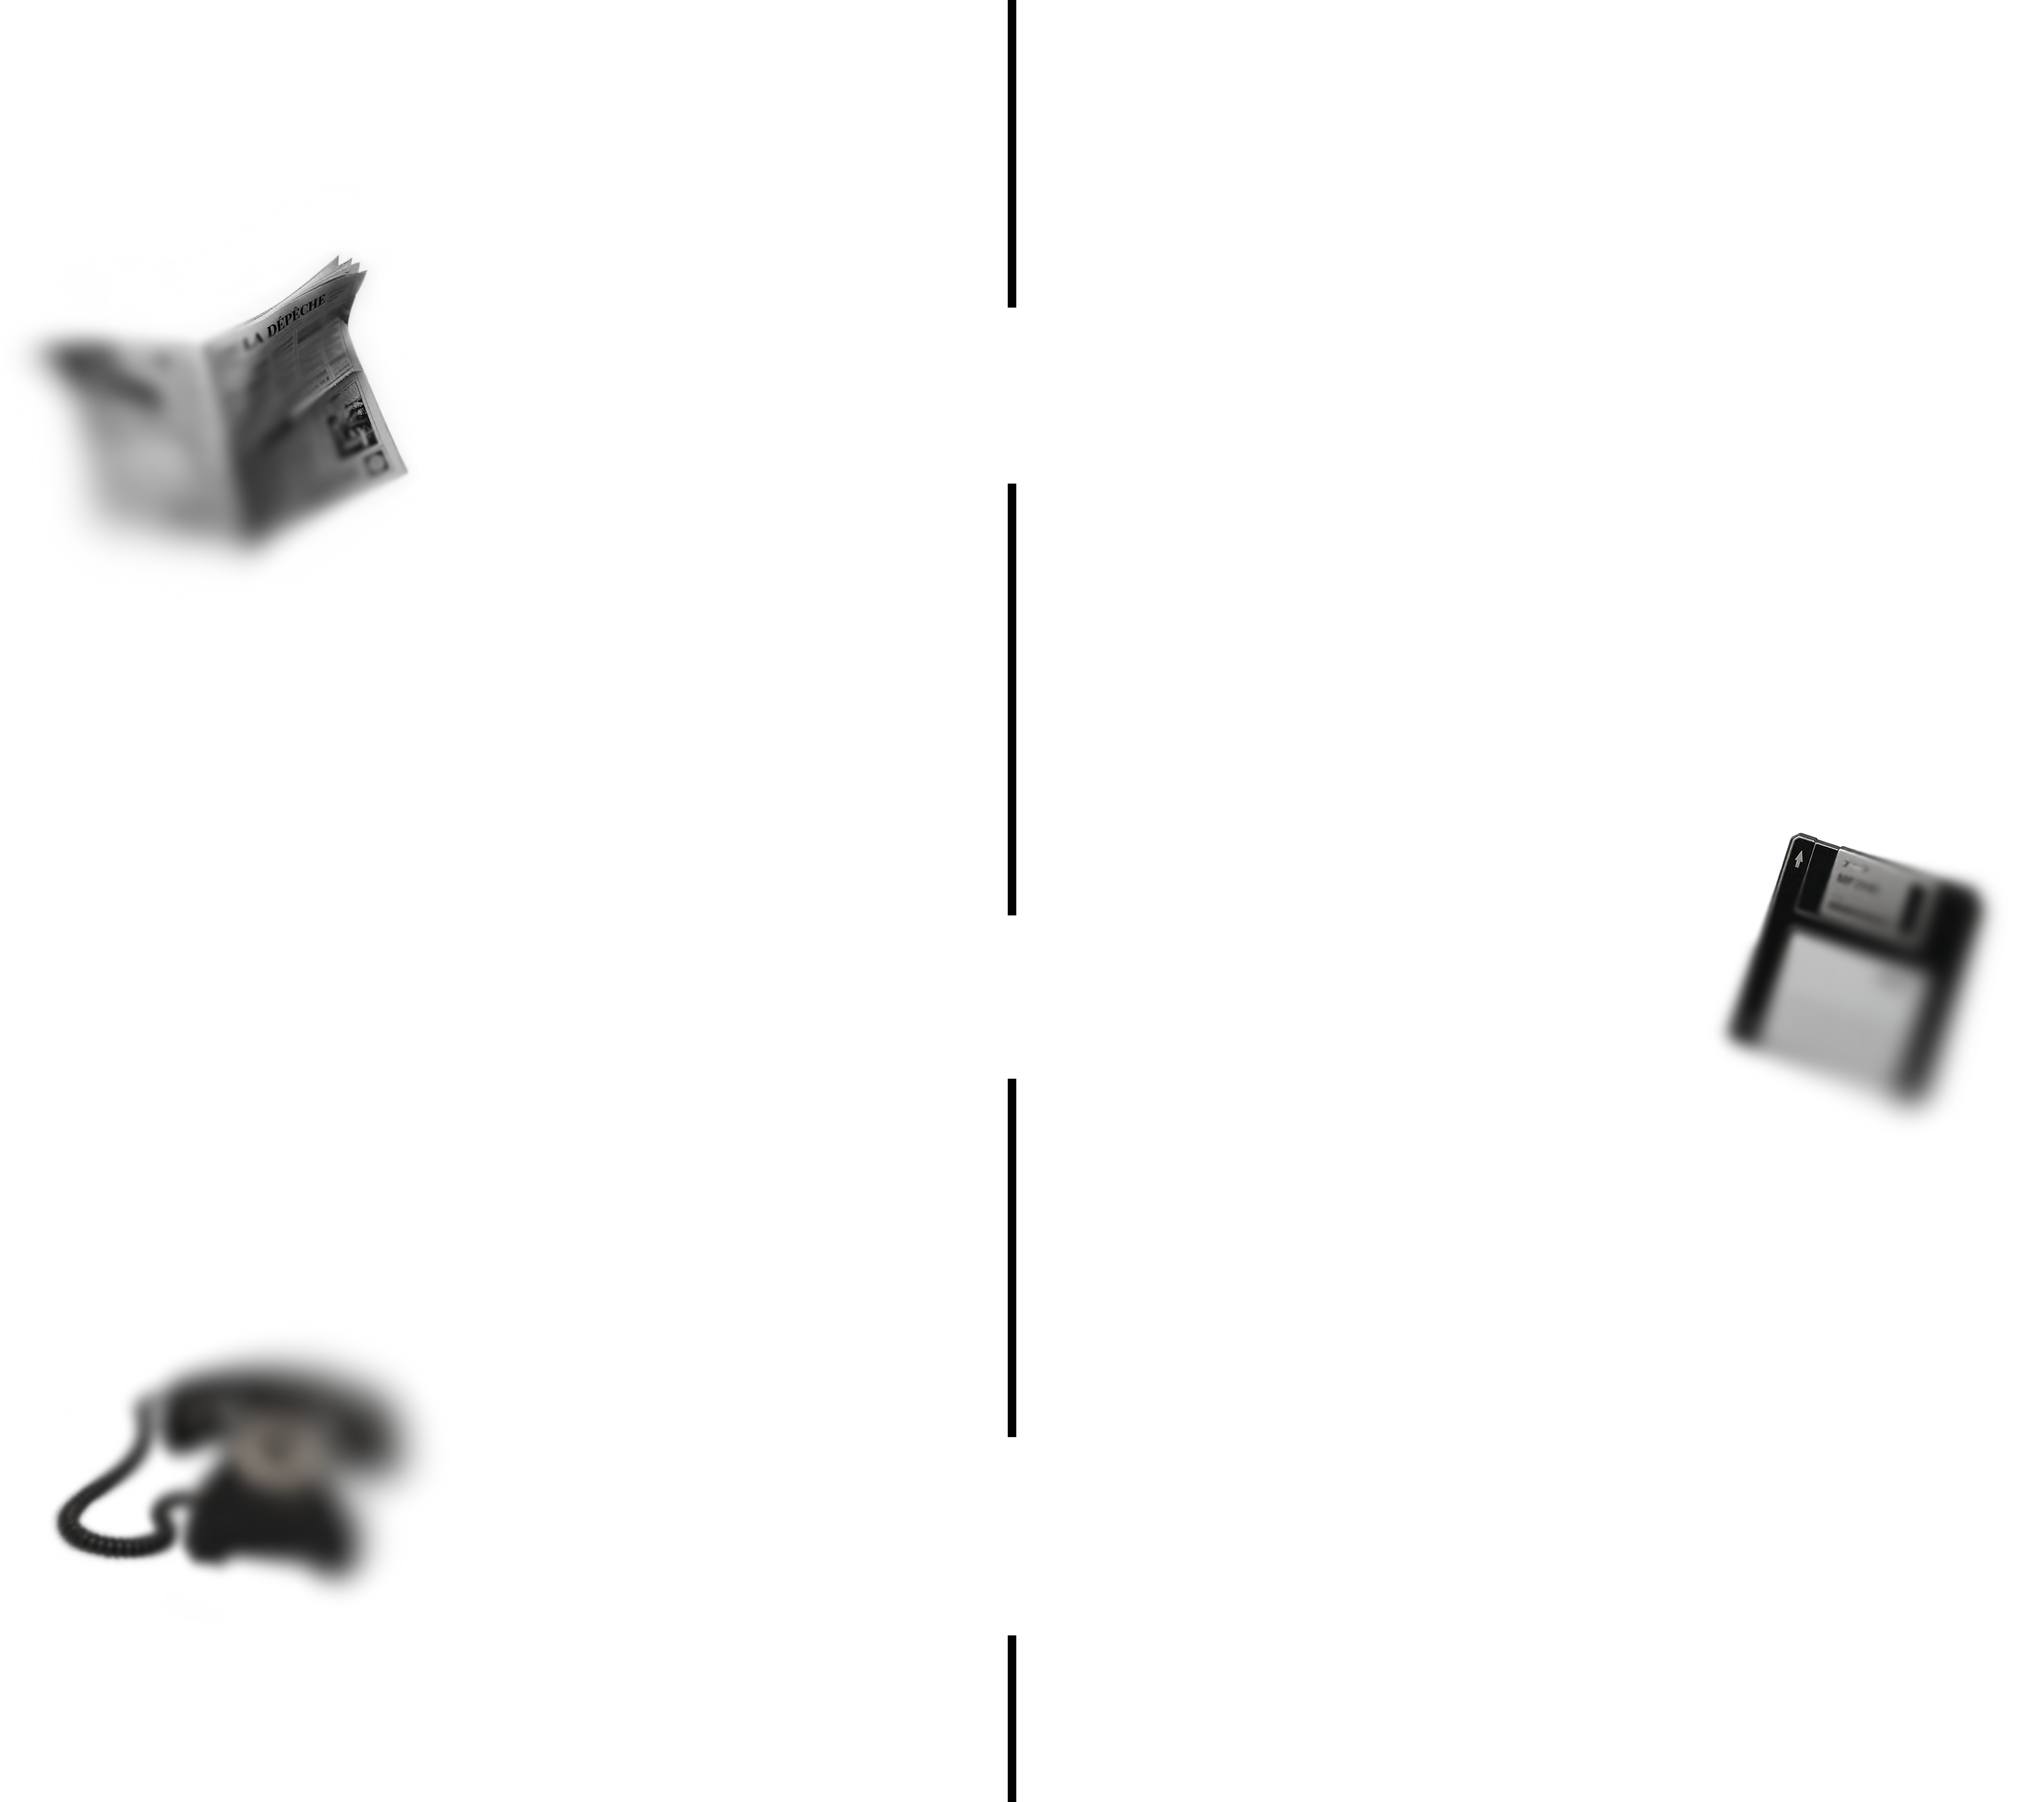
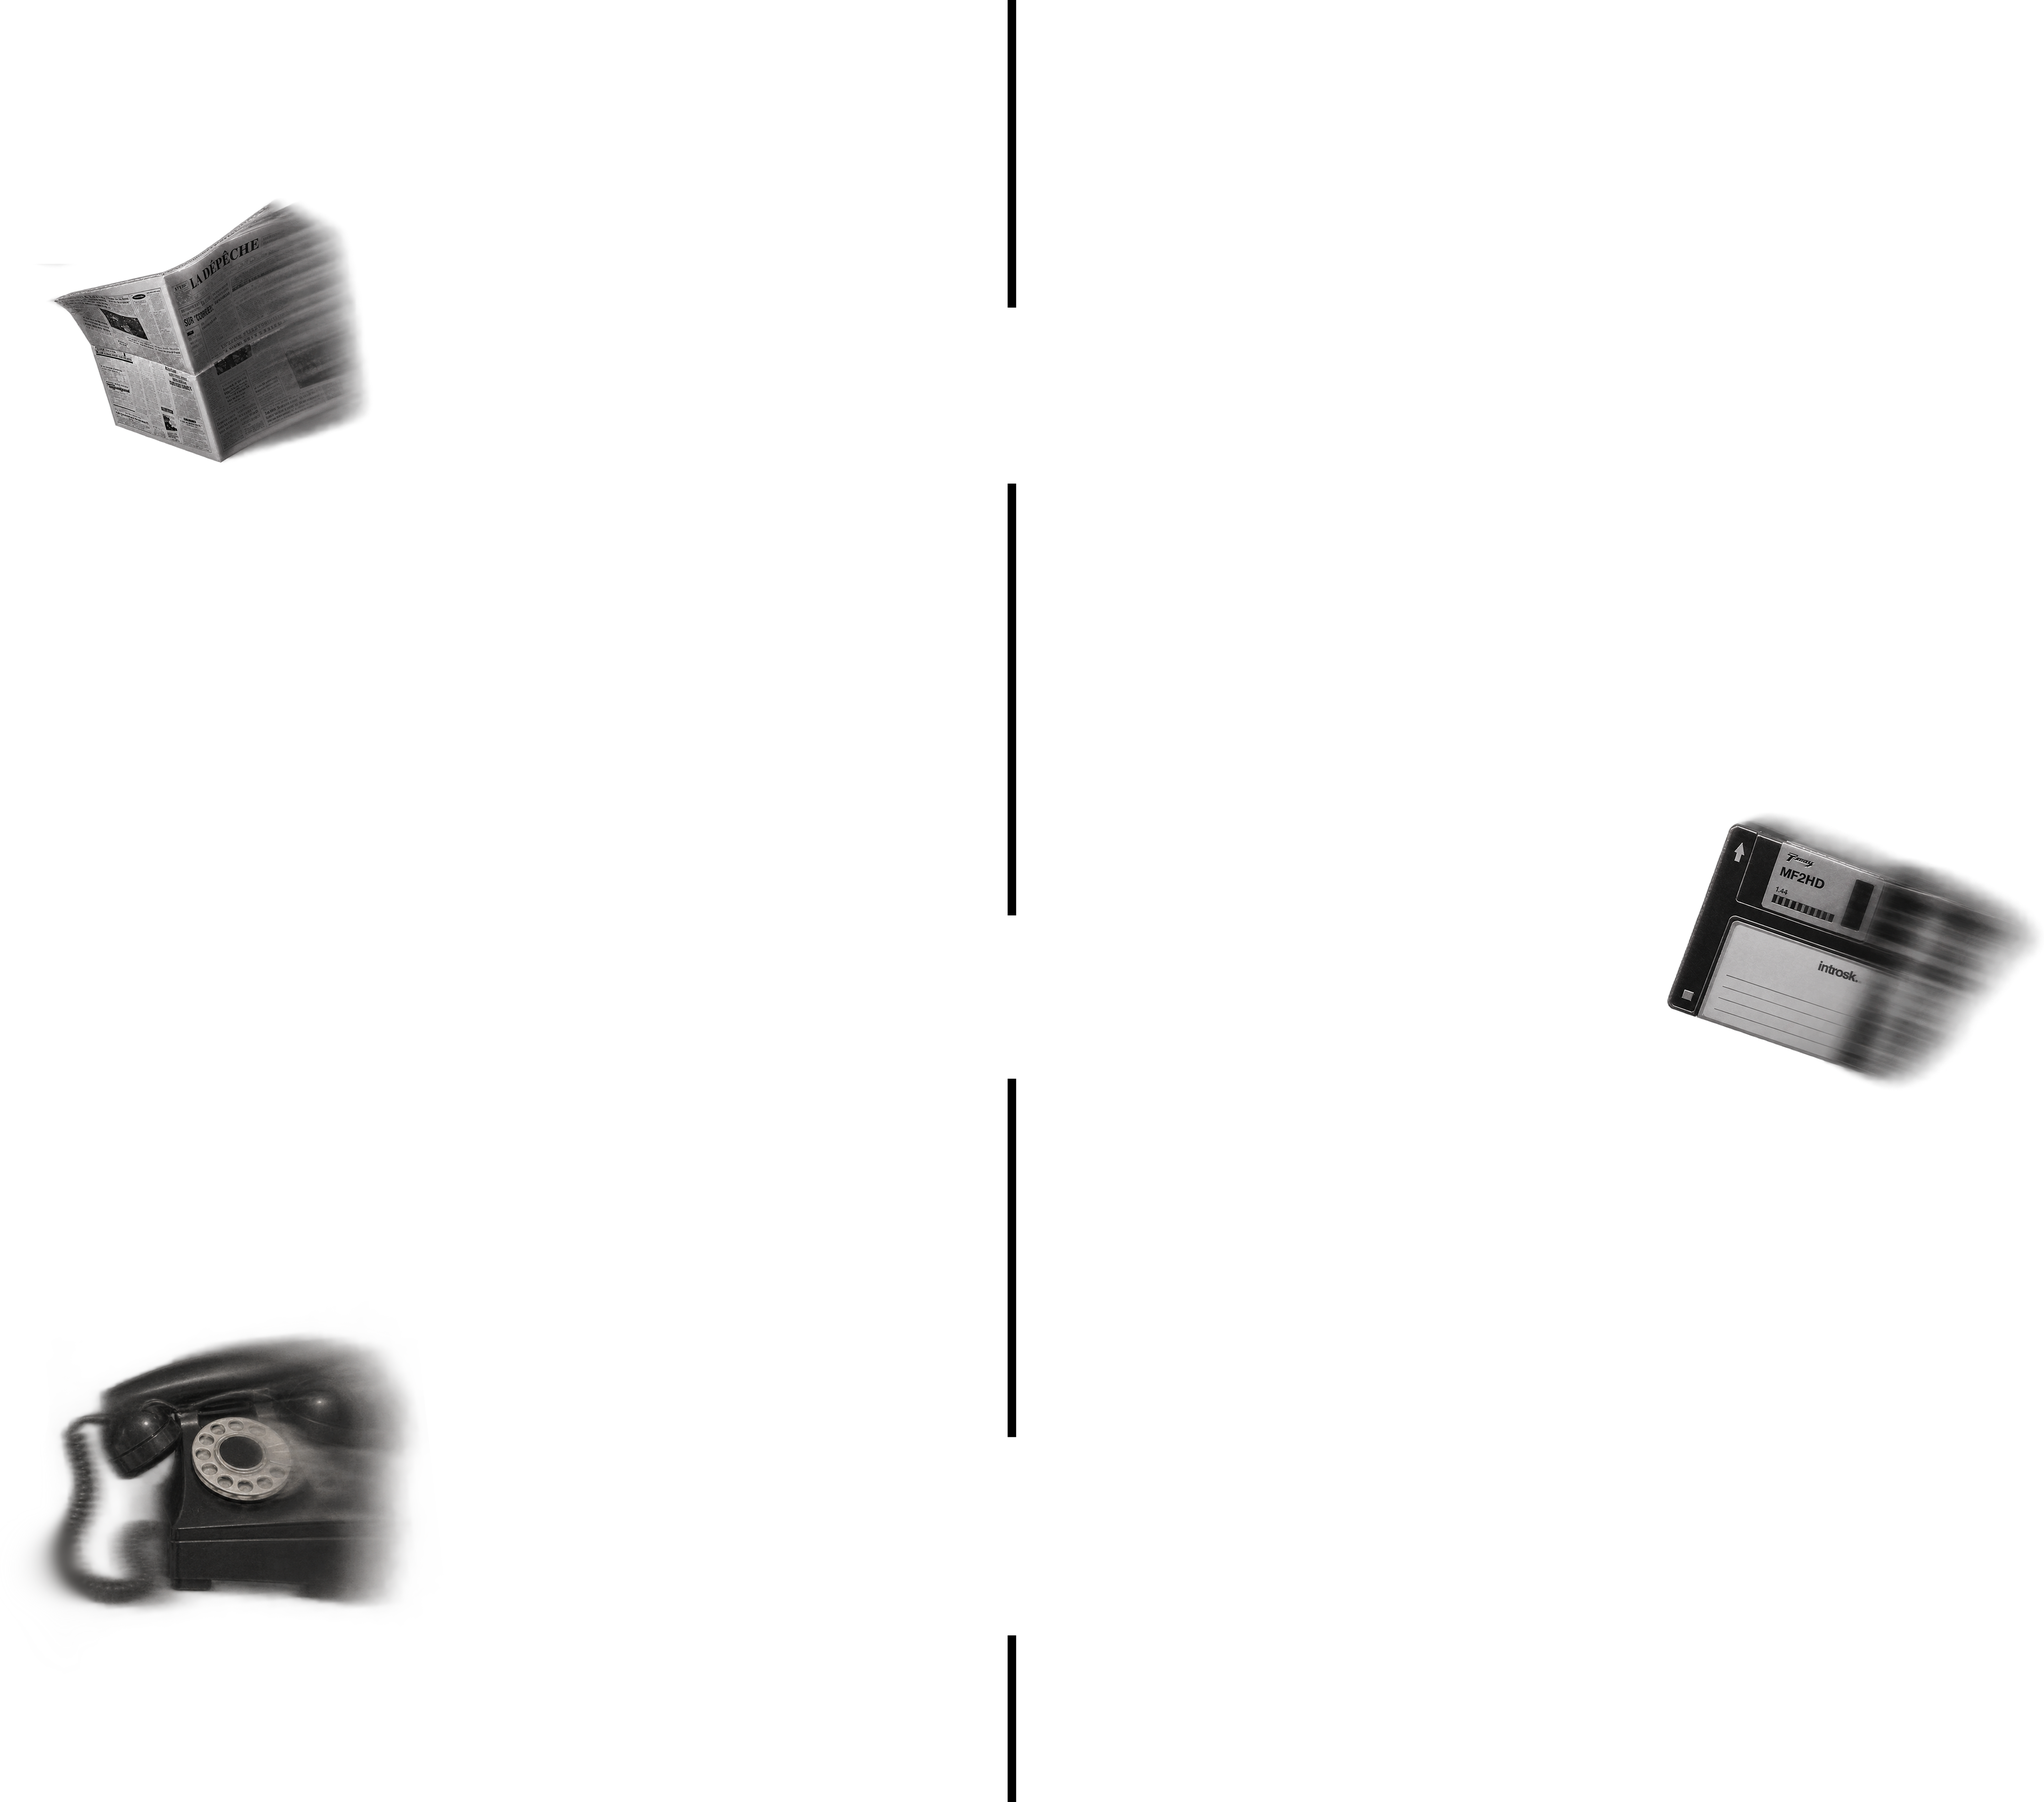
последние правки
почистила css и HTML чтобы не было повторяющихся элементов

Changed region(s): [[0.0, 0.7155, 0.218, 0.9021], [0.0, 0.0933, 0.218, 0.3111], [0.8097, 0.4355, 0.9965, 0.6222]]

diff --git a/index.html b/index.html
@@ -11,13 +11,11 @@
 
 <body>
 
-  <ul>
-    <li><a href="#1">О нас</a></li>
-  </ul>
+
 
   <section class="section-0">
     <nav class="menu">
-      <img src="imagesforweb/list.png" class="perehod">
+      <img src="imagesforweb/list.png" class="perehod" alt="меню">
       <a href="#1">о нас</a>
       <a href="#3">история</a>
       <a href="#4">каталог</a>
@@ -30,7 +28,7 @@
     <h2 class="title">Здесь можно записать то,
       что хочется сохранить!</h2>
     <a href="#1" class="godown">
-      <img src="imagesforweb/down.png" class="go">
+      <img src="imagesforweb/down.png" class="go" alt="вниз">
     </a>
   </section>
 
@@ -39,16 +37,16 @@
     <div class="about-text1">
       <div class="text">
         <p>
-          morrow— это место для воспоминаний, которые хочется сохранить.
+          morrow — это место для воспоминаний, которые хочется сохранить.
           Мы создали кабинку, куда можно зайти на пару минут,
           взять трубку и оставить свой голос: рассказать о
           важном, смешном, странном или просто о сегодняшнем дне.
         </p>
         <p>Здесь можно оставить послание себе в будущее или
           кому-то, кто однажды его услышит.
-          Потому что сейчас— это то, по чему мы когда-нибудь будем скучать.</p>
+          Потому что сейчас — это то, по чему мы когда-нибудь будем скучать.</p>
       </div>
-      <img src="imagesforweb/photo2.png" class="photo2">
+      <img src="imagesforweb/photo2.png" class="photo2" alt="">
     </div>
   </section>
 
@@ -60,7 +58,7 @@
           забывается. Ведь иногда именно самые обычные моменты потом становятся самыми
           дорогими!</p>
       </div>
-      <img src="imagesforweb/photostars.png" class="star">
+      <img src="imagesforweb/photostars.png" class="star" alt="">
     </div>
   </section>
 
@@ -69,7 +67,7 @@
       <h2 class="big">2024<span class="dop">отпечаток</span></h2>
       <p>Всё началось с простой мысли: а что, если
         можно было бы сохранить не только фотографии, но и голос, настроение и мысли
-        определённого момента</p>
+        определённого момента.</p>
     </div>
     <div class="text4">
       <h2 class="big">2025<span class="dop">память</span></h2>
@@ -83,33 +81,33 @@
     </div>
   </section>
 
-  <Section class="section-5">
+  <section class="section-5">
     <h1 id="4" class="big2">Каталог</h1>
-    <img src="imagesforweb/catalog.png" class="catalog">
+    <img src="imagesforweb/catalog.png" class="catalog" alt="каталог">
     <div class="tariffs">
-      <div class="t11"><b>Мы вдвоём</b><b>367</b>
+      <div class="t11"><b>Мы вдвоём</b><b>367р</b>
         <p>20 минут для двоих + несколько видео и голосовых на память.</p>
       </div>
-      <div class="t12"><b>Для будущего</b><b>500</b>
-        <p>15 минут + до 3 записей. Можно оставить послание себе или кому-то</p>
+      <div class="t12"><b>Для будущего</b><b>500р</b>
+        <p>15 минут + до 3 записей. Можно оставить послание себе или кому-то.</p>
       </div>
-      <div class="t13"><b>Одно воспоминание</b><b>200</b>
+      <div class="t13"><b>Одно воспоминание</b><b>200р</b>
         <p>10 минут в кабинке + запись одного видео или голосового сообщения.</p>
       </div>
-      <div class="t14"><b>Архив</b><b>1000</b>
+      <div class="t14"><b>Архив</b><b>1000р</b>
         <p>30 минут в кабинке + неограниченное количество записей.</p>
       </div>
     </div>
 
-  </Section>
+  </section>
 
-  <Section class="section-6">
+  <section class="section-6">
     <h1 id="5" class="big3">Воркеры</h1>
-    <img src="imagesforweb/workers.png" class="work">
+    <img src="imagesforweb/workers.png" class="work" alt="наша команда">
     <p class="worktext">Мы — команда из четырёх человек, которых
       объединяет любовь к историям, воспоминаниям и необычным
       идеям. Вместе мы
-      создаём morrow</p>
+      создаём morrow.</p>
     <div class="names">
       <span>Кристи</span>
       <span>Андрей</span>
@@ -117,10 +115,10 @@
       <span>Виктория</span>
     </div>
 
-  </Section>
+  </section>
 
-  <Section class="section-7">
-    <img src="imagesforweb/podval.png" class="podval">
+  <section class="section-7">
+    <img src="imagesforweb/podval.png" class="podval" alt="">
     <div class="white">
       <span class="t1">подпишись на канал и получи скидку 10% на первое посещение</span>
 
@@ -135,11 +133,7 @@
       <span class="t9">8 (395) 885 30 20</span>
     </div>
 
-  </Section>
-
-
-
-
+  </section>
 
 
 </body>

diff --git a/stylesheets/layout.css b/stylesheets/layout.css
@@ -5,8 +5,6 @@ html {
   scroll-behavior: smooth;
 }
 body{
-  /* font-family: Arial, Helvetica, sans-serif; */
-   /* font-family: "PT Root UI"; */
     font-family: "Open Sans", Arial, sans-serif;
 }
 img {
@@ -29,15 +27,13 @@ img {
     padding-top: 550px; /* отступ сверху */
 }
 .go {
-    height: auto;
     width: 90px;
     opacity: 0.5;              /* блеклая кнопка йоу */
     transition: opacity 0.3s;  /* плавная смена */
-    text-align: center;  /*выровнять по центру*/
     padding-top: 100px;  /* отступ сверху */
      margin: 0 auto;
 }
-h1, h2, h3, h4, h5, p, ul, ol, blockquote, hr {
+h1, h2, p {
   width: 750px;
   margin: 0 auto;
 }
@@ -52,17 +48,12 @@ p {
   font-size: 25px;    /*менять размер текста*/
   line-height: 28px;
 }
-b, strong {
-    font-weight: 700;
-}
+
 
 .go:hover {
     opacity: 0.7;                
 }
 
-ul {
-    display: none;
-}
 
 .onas {
  margin: 40px auto 110px;
@@ -73,7 +64,6 @@ ul {
     gap: 230px;               /* расстояние между картинкой и текстом */
     max-width: 1200px;
     margin: 0 auto;
-    position: relative; 
 }
 .text {
     width: 55%;              /* текст влево */
@@ -83,7 +73,6 @@ ul {
     right: 30px;
 }
 .photo2 {
-    height: auto;
     width: 500px;
     position: relative;
     top: -150px;      
@@ -93,8 +82,7 @@ ul {
 .about-text2 {
    width: 700px;
     text-align: center;  
-     position: relative;
-      margin: 0 auto;         
+    margin: 0 auto;         
 }
 .star {
     position: relative;
@@ -124,7 +112,7 @@ ul {
     width: 100%;
     background-image: url('../imagesforweb/back1.png');
     background-size: 100% 100%;
-     min-height: 1300px
+     min-height: 1300px;
 }
 .section-3 {
       height: 320px;
@@ -154,7 +142,7 @@ ul {
 
 .catalog {
     width: 1300px;
-    margin: 0 auto;   /* центрирование по горизонтали */;
+    margin: 0 auto;   /* центрирование по горизонтали */
 }
 .worktext {
     position: relative;
@@ -181,15 +169,9 @@ ul {
 }
 
 .section-7 {
-    background-image: url('../imagesforweb/podval.png');
     position: relative; 
 }
 
-.menu {
-    position: sticky;
-    top: 0;
-    z-index: 100;
-}
 
 .menu a {
     position: absolute;
@@ -262,9 +244,12 @@ ul {
  }
 
 .tariffs p { 
-    width: 100%; margin-top: 25px; 
-    font-size: 22px; line-height:
-     1.3; text-align: center; }
+    width: 100%; 
+    margin-top: 25px; 
+    font-size: 22px; 
+    line-height:1.3; 
+    text-align: center; 
+}
 
 .t11 { left: 137px; top: 275px; }
 .t12 { left: 709px; top: 275px; }

diff --git a/README.md b/README.md
@@ -40,3 +40,7 @@
 - в HTML были лишняя кавычка и незакрытые теги.
 
 После подсказок я вносила исправления в код сама.
+
+## Использование ИИ
+
+При создании меню (блок `nav.menu` в `section-0`) я консультировалась с ИИ-ассистентом Claude (Anthropic). Он помог разобраться со структурой навигации. Итоговый код я дорабатывала и подгоняла под дизайн самостоятельно.
